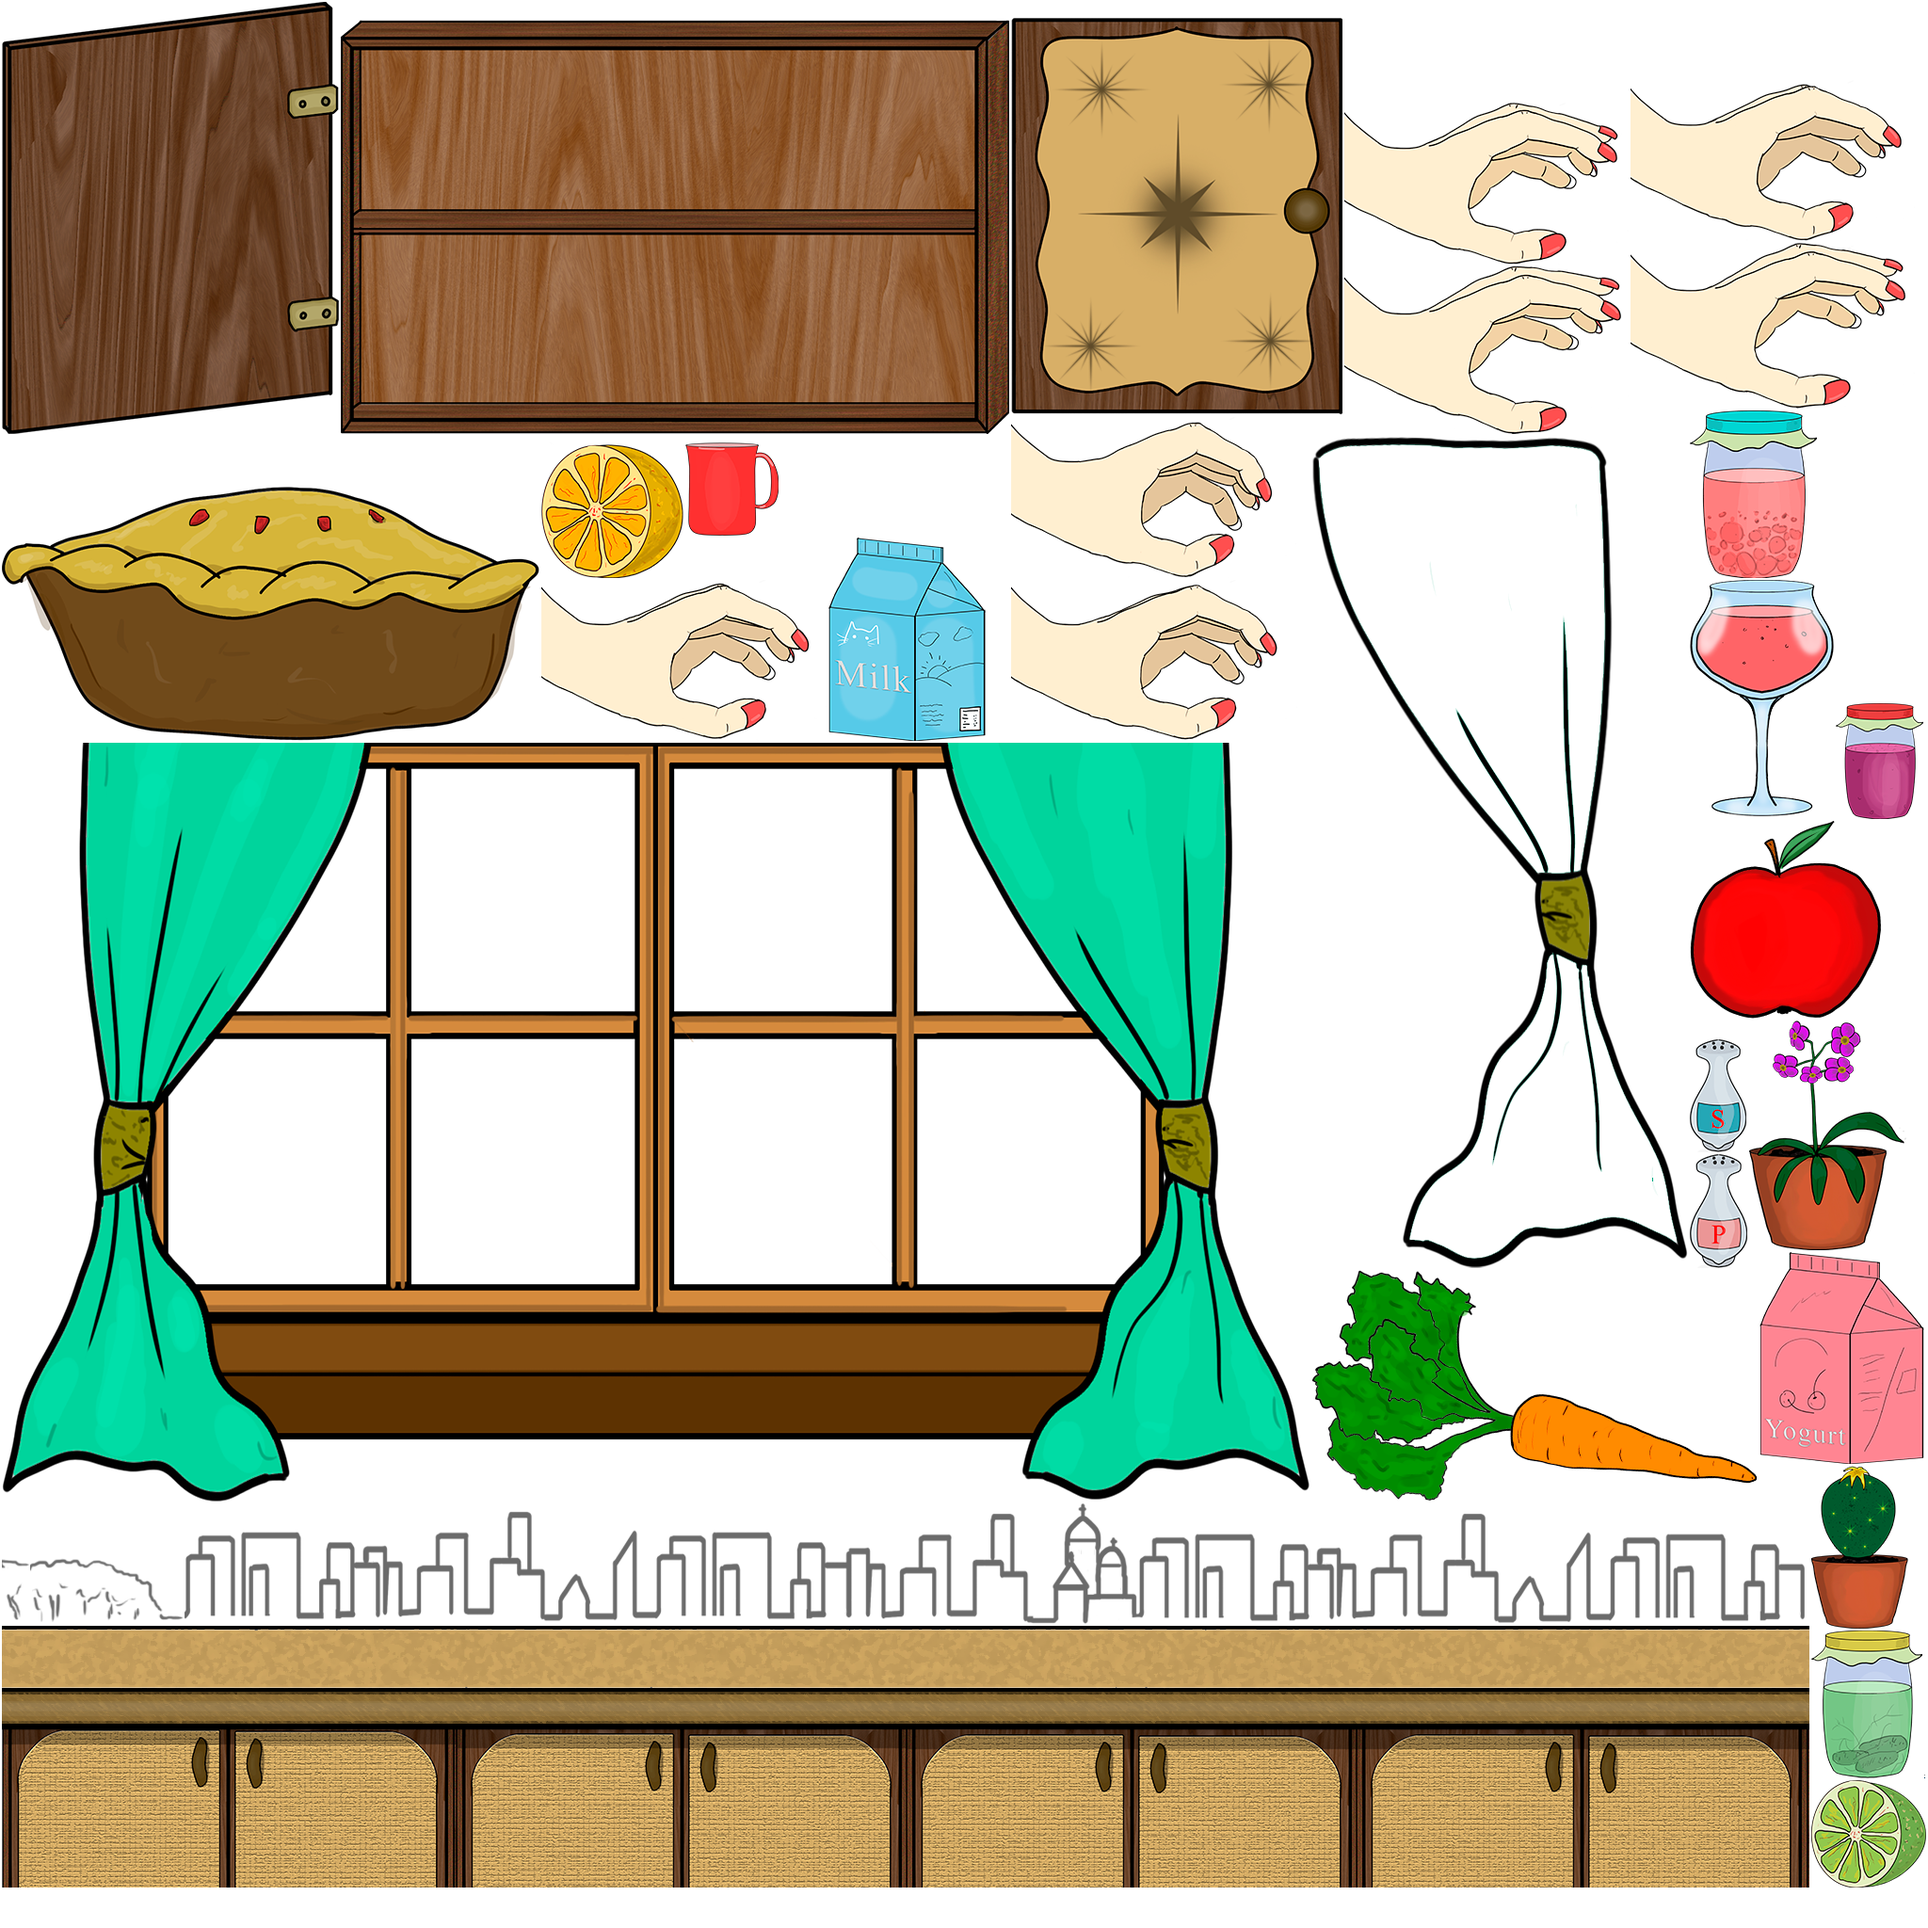
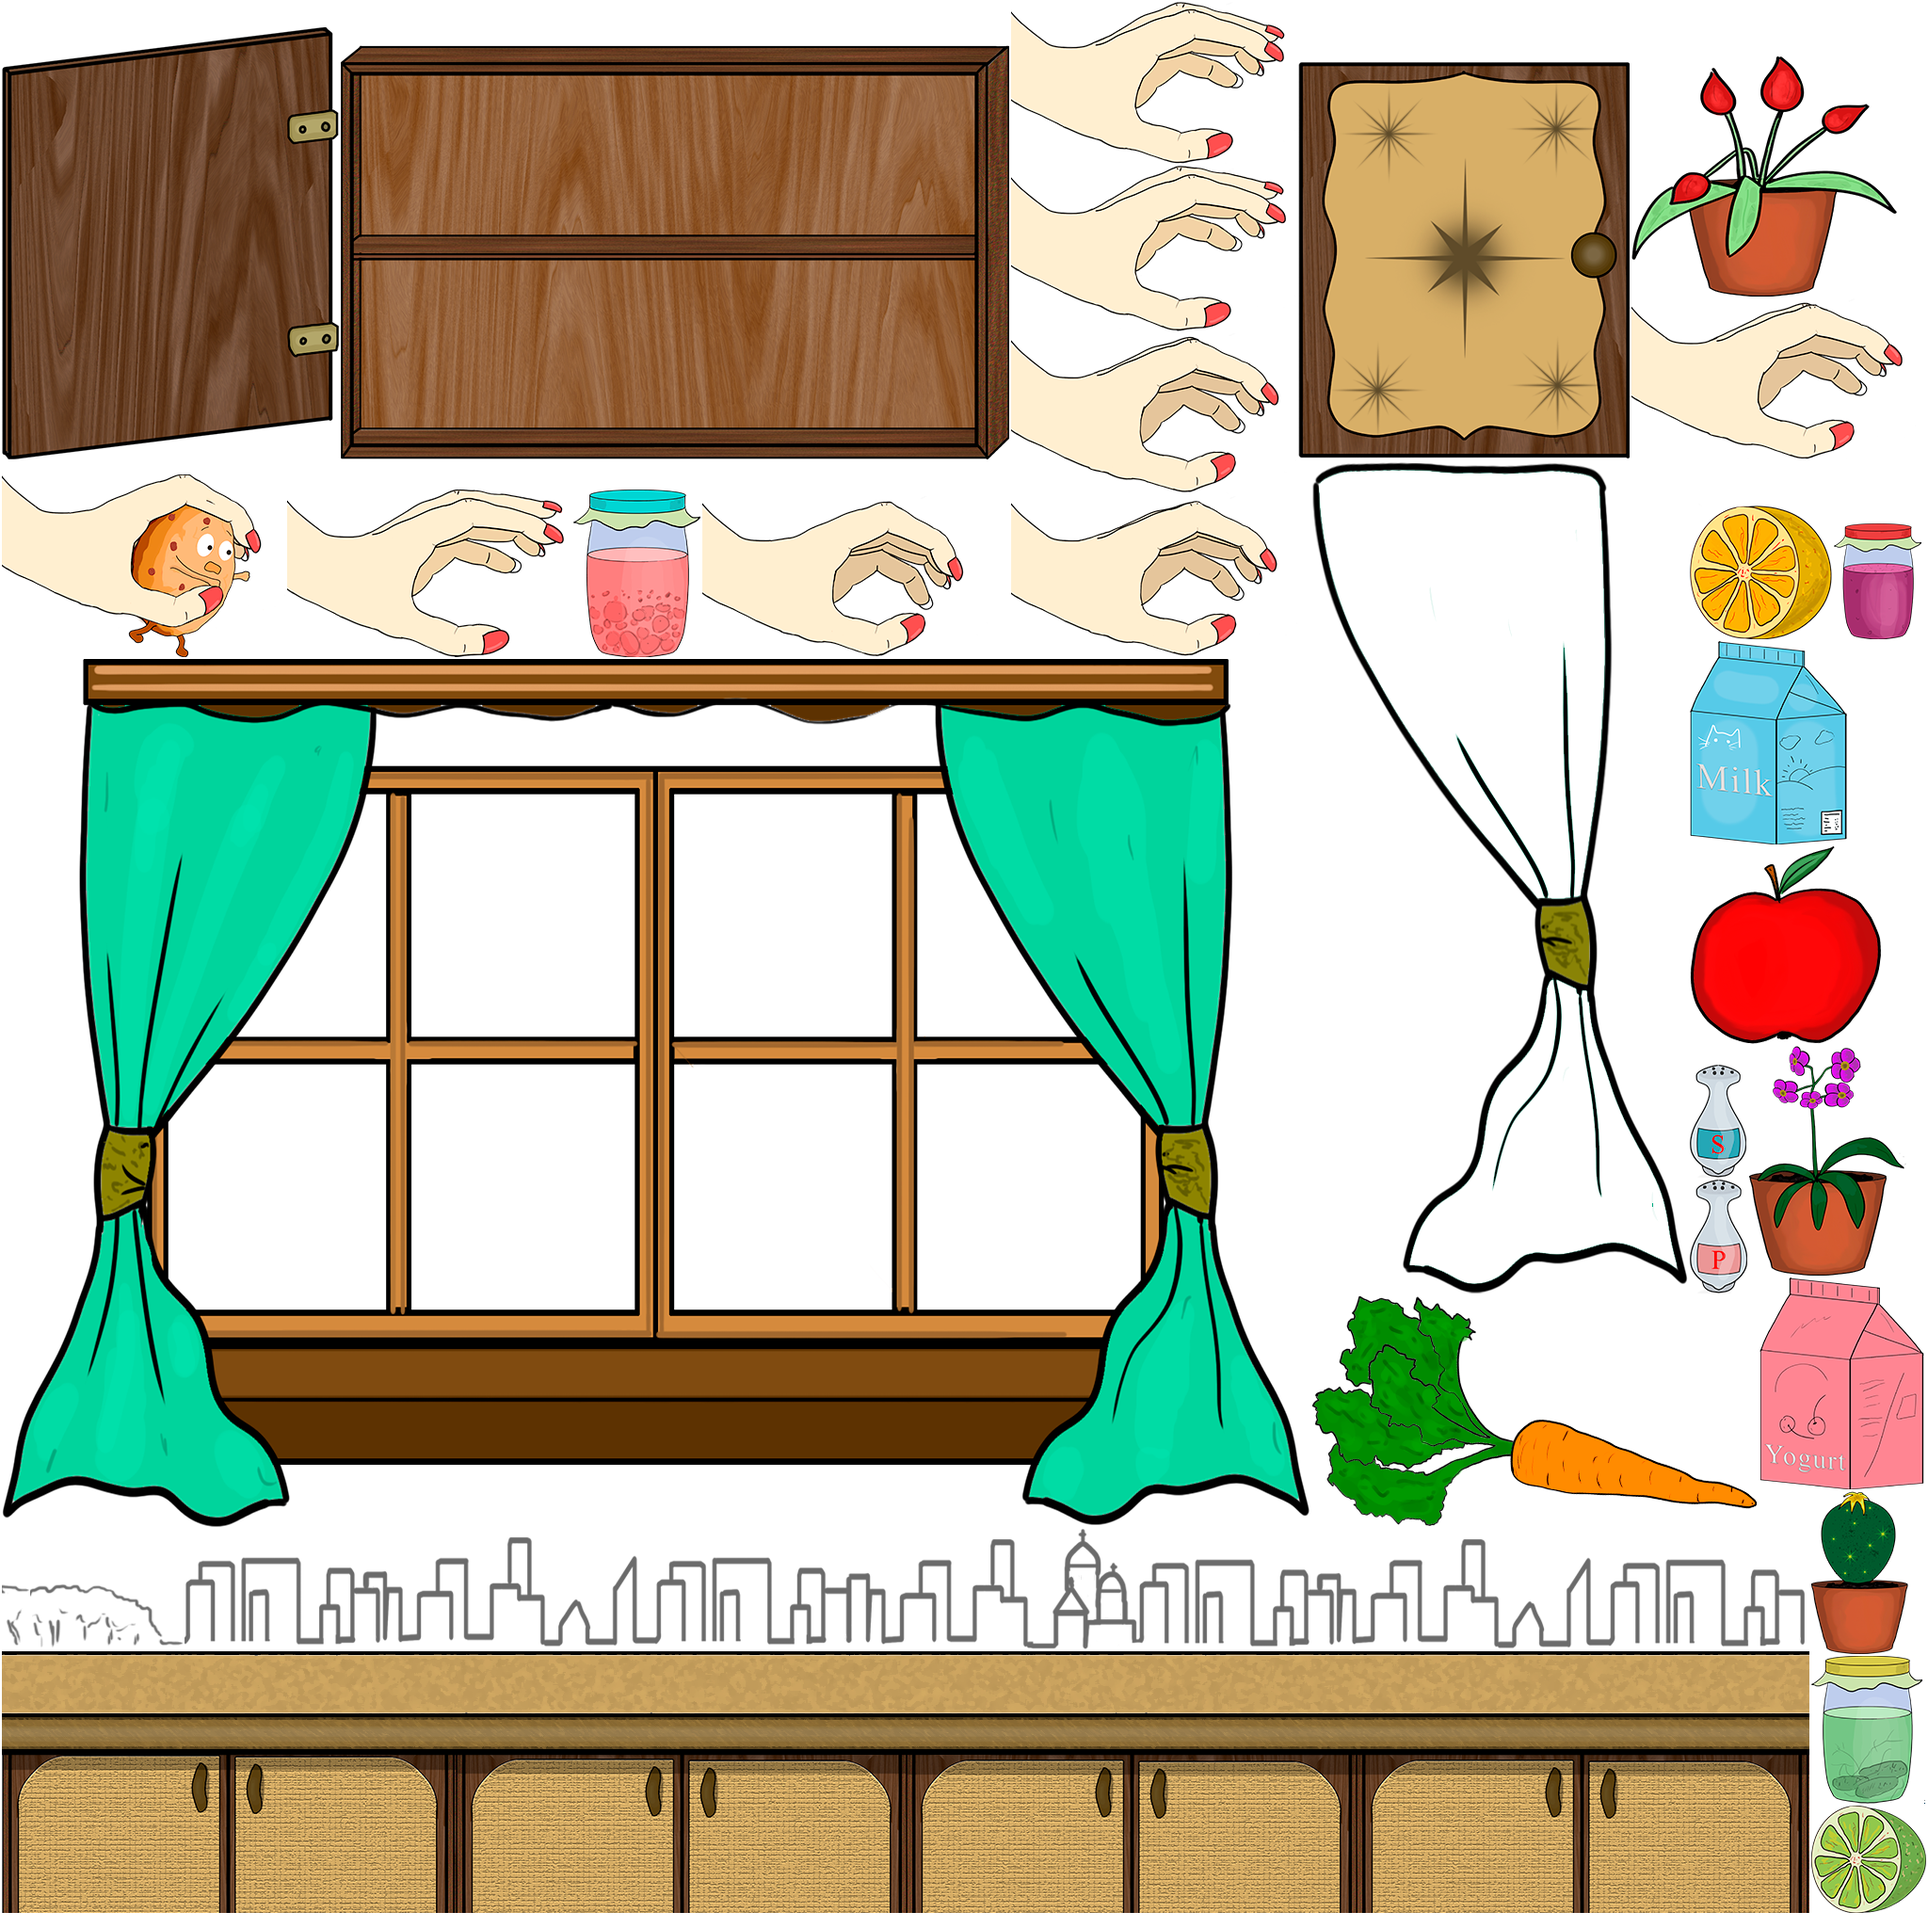
(feature) finish cookie catching with hand

diff --git a/core/src/com/mygdx/game/actors/game/Arm.kt b/core/src/com/mygdx/game/actors/game/Arm.kt
@@ -17,12 +17,13 @@ import com.mygdx.game.data.Descriptors
 import com.mygdx.game.api.Physical
 import java.util.*
 
-class Hand(manager : AssetManager, private val cookie: Cookie) : Actor(), Physical, Animated {
+class Arm(manager : AssetManager, private val cookie: Cookie) : Actor(), Physical, Animated {
 
     private val texture = manager.get(Descriptors.environment)
     private val handRegion = texture.findRegion(Assets.EnvironmentAtlas.HAND)
     private val catchCookieRegion = texture.findRegion(Assets.EnvironmentAtlas.CATCH_COOKIE)
     private val handRegions = texture.findRegions(Assets.EnvironmentAtlas.HAND)
+    private val prolongationArmRegion = texture.findRegion(Assets.EnvironmentAtlas.PROLONGATION_HAND)
     private val handAnim = Animation(0.1f, handRegions, Animation.PlayMode.LOOP_PINGPONG)
 
     private val random = Random()
@@ -34,6 +35,7 @@ class Hand(manager : AssetManager, private val cookie: Cookie) : Actor(), Physic
     private var currentFrame: TextureRegion = handRegion
 
     private var isFinalAnimation = false
+    private var isFinalHandBackAnimation = false
 
     init {
         this.x = initPosition.x
@@ -79,7 +81,18 @@ class Hand(manager : AssetManager, private val cookie: Cookie) : Actor(), Physic
         }*/
         val width = currentFrame.regionWidth.toFloat()
         val height =  currentFrame.regionHeight.toFloat()
-        batch!!.draw(currentFrame, x, y, width, height)
+        drawProlongationHand(batch!!)
+        batch.draw(currentFrame, x, y, width, height)
+    }
+
+    private fun drawProlongationHand(batch: Batch) {
+        val region = prolongationArmRegion
+        val width = region.originalWidth.toFloat()
+        val height = region.originalHeight.toFloat()
+        val y = if(isFinalHandBackAnimation) {
+            y+23 // fit to hand
+        } else y
+        batch.draw(region, x - region.originalWidth, y + 73, width, height)
     }
 
     override fun getBoundsRect(): Rectangle {
@@ -95,6 +108,7 @@ class Hand(manager : AssetManager, private val cookie: Cookie) : Actor(), Physic
            val runAfterMove =  Actions.run {
                cookie.remove()
                currentFrame = catchCookieRegion
+               isFinalHandBackAnimation = true
            }
            val backAnimation = Actions.moveTo(-currentFrame.regionWidth.toFloat(), y, animDuration)
            val run = Actions.run(runAfter)

diff --git a/core/src/com/mygdx/game/world/GameWorld.kt b/core/src/com/mygdx/game/world/GameWorld.kt
@@ -35,9 +35,9 @@ class GameWorld(private val manager : AssetManager) {
     private val shadow = Shadow(manager)
     private val cupboard = Cupboard(manager, window)
     private val score = Score(manager)
-    private val hand = Hand(manager, cookie)
+    private val arm = Arm(manager, cookie)
     private val items = TableItems(manager, table, cookie)
-    val actors : Array<Actor> = Array.with(background, cupboard, shadow, sky, moon, city, window, flower, table, cookie, hand, score)
+    val actors : Array<Actor> = Array.with(background, cupboard, shadow, sky, moon, city, window, flower, table, cookie, arm, score)
 
     private var touchable = true
     private var isGameOver = false
@@ -109,12 +109,12 @@ class GameWorld(private val manager : AssetManager) {
     }
 
     private fun checkContactCookieAndHand(){
-        if(hand.x + hand.width >= cookie.x && isGameOver.not()){
+        if(arm.x + arm.width >= cookie.x && isGameOver.not()){
             isGameOver = true
             touchable = false
             stopMove()
-            hand.actions.clear()
-            hand.animate(true, Runnable{
+            arm.actions.clear()
+            arm.animate(true, Runnable{
                 ScreenManager.setScreen(GAME_OVER)
             })
 

diff --git a/core/src/com/mygdx/game/data/Assets.kt b/core/src/com/mygdx/game/data/Assets.kt
@@ -48,6 +48,7 @@ class Assets {
             const val MILK_BOX = "milk_box"
             const val YOGURT_BOX = "yogurt_box"
             const val HAND = "hand"
+            const val PROLONGATION_HAND = "prolongationHand"
             const val CATCH_COOKIE = "catch_cookie"
         }
     }

diff --git a/core/src/com/mygdx/game/GdxGame.kt b/core/src/com/mygdx/game/GdxGame.kt
@@ -8,7 +8,7 @@ class GdxGame : Game() {
 
     override fun create() {
         ScreenManager.game = this
-        ScreenManager.setScreen(GAME_SCREEN)
+        ScreenManager.setScreen(START_SCREEN)
     }
 
     override fun render() {
